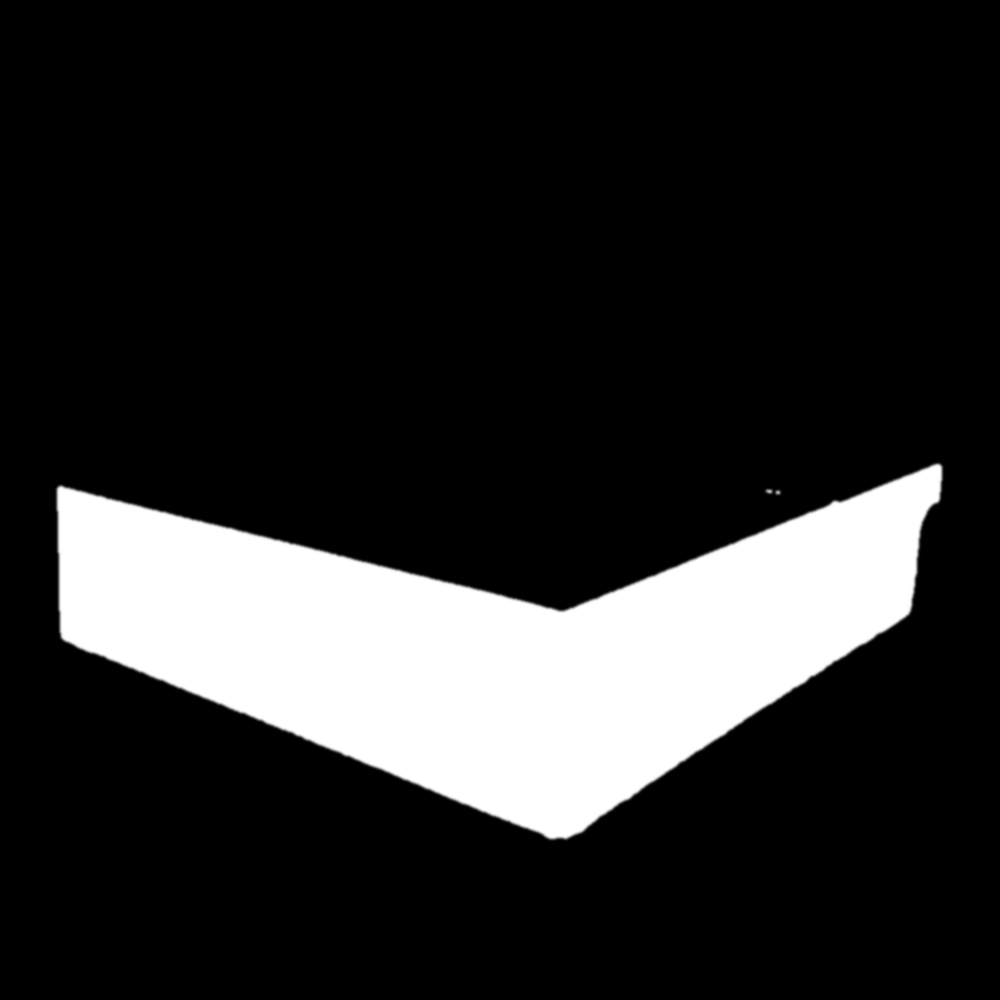
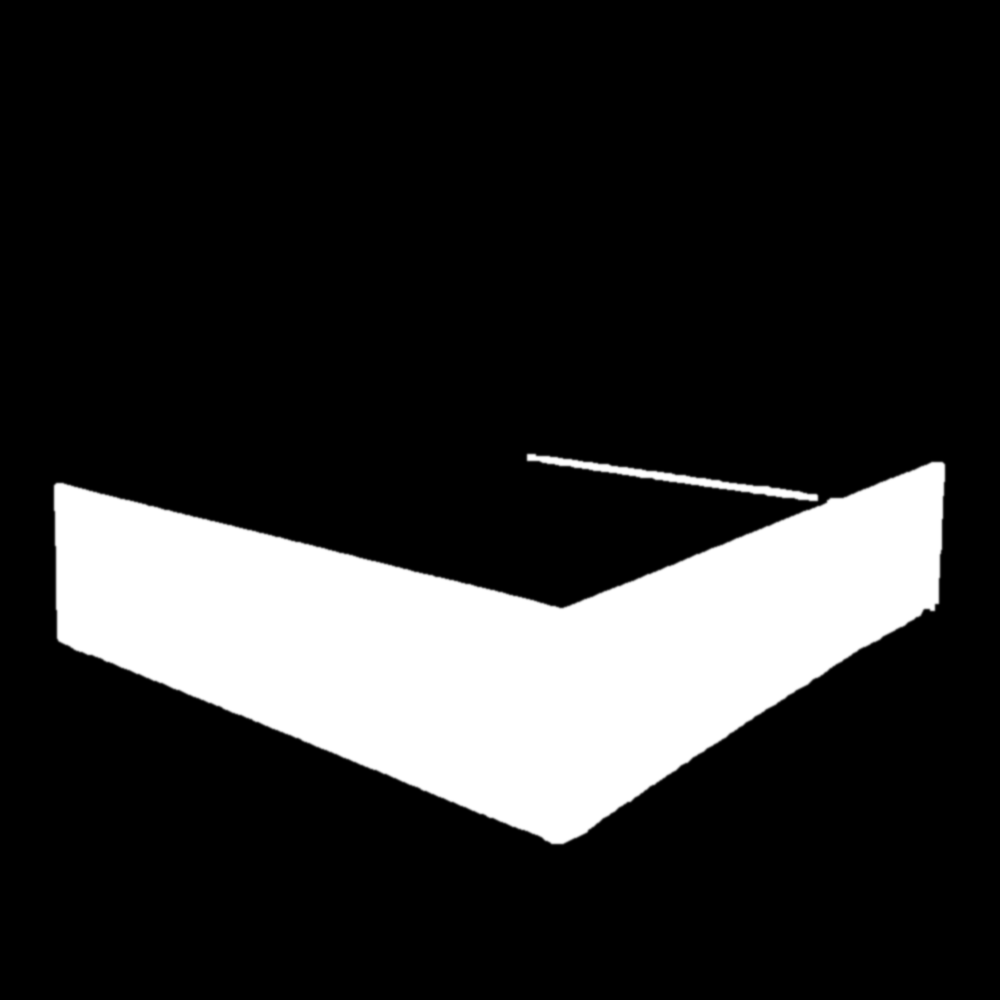
Build Your Bed: base masks now cover the divan split, top-rim piping and shadowed end
The colour-keyed masks missed the dark seam between the two base halves, the
teal piping along the top rim and the shadowed far-right end, so they stayed
teal/grey under pale fabrics. Masks regenerated with gap-closing + hole-fill,
a 2px edge pad, looser shadow keying (teal) / restored olive hue band, and an
explicit dark-seam key across the platform. Mask URLs cache-busted (?v=2).

diff --git a/tools/build.py b/tools/build.py
@@ -1318,8 +1318,8 @@ def build_bedbuilder():
     <div class="bb-note">The bed — and every headboard below — previews in your chosen fabric on real Aurora pieces. Upholstered to order; call in to Church Street to feel the swatches in person.</div>
     <img id="srcDivan" src="/assets/img/base-standard-divan.jpg" hidden alt="">
     <img id="srcDrawer" src="/assets/img/base-standard-drawer.jpg" hidden alt="">
-    <img id="mskDivan" src="/assets/img/mask-divan.png" hidden alt="">
-    <img id="mskDrawer" src="/assets/img/mask-drawer.png" hidden alt="">
+    <img id="mskDivan" src="/assets/img/mask-divan.png?v=2" hidden alt="">
+    <img id="mskDrawer" src="/assets/img/mask-drawer.png?v=2" hidden alt="">
     {hb_srcs}
   </div>
   <div class="bb-controls">
